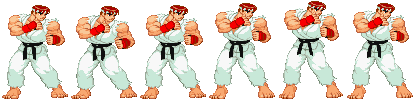
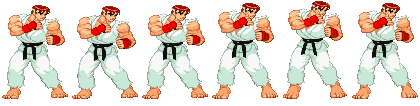
added sprite animation

diff --git a/palette_swap.py b/palette_swap.py
@@ -5,10 +5,11 @@ from pygame.locals import *
 pygame.init()
 pygame.display.set_caption("palette swap test")
 
-WINDOW_SIZE = [416, 106]
+WINDOW_SIZE = [420, 106]
 screen = pygame.display.set_mode(WINDOW_SIZE)
 
 ryu = pygame.image.load("./ryu/idle.png").convert()
+#ryu_copy = ryu
 
 def palette_swap(screen, colOld, colNew):
     img_copy = pygame.Surface(ryu.get_size())
@@ -17,25 +18,50 @@ def palette_swap(screen, colOld, colNew):
     img_copy.blit(screen,(0,0))
     return img_copy
 
-
-ryu = palette_swap(ryu, (248,248,248),(64,64,136))
-ryu = palette_swap(ryu, (200,232,216),(48,48,96))
-ryu = palette_swap(ryu, (184,200,184),(32,32,80))
-ryu = palette_swap(ryu, (152,168,152),(16,16,64))
-ryu = palette_swap(ryu, (112,136,112),(0,0,48))
-
-ryu = palette_swap(ryu, (248,0,0),(168,0,0))
-ryu = palette_swap(ryu, (112,0,0),(184,0,0))
+ryu_orig_cols = [(248,248,248), (200,232,216), (184,200,184), (152,168,152), (112,136,112), (248,0,0), (112,0,0)]
+ryu_new_cols =  [(64,64,136), (48,48,96), (32,32,80), (16,16,64), (0,0,48), (168,0,0), (184,0,0)]
 
 
-#ryu.set_colorkey((0,0,0))
+
+for i in range(0, 7):
+    ryu = palette_swap(ryu, ryu_orig_cols[i], ryu_new_cols[i])
+    
+
+def get_image(sheet, frame, width, height):
+    img = pygame.Surface((width, height)).convert()
+    img.blit(sheet, (0,0), ((frame * width),0, width, height))
+    img.set_colorkey((0,0,0))
+
+    return img
 
 def main():
+
+    anim_list = []
+    last_update = pygame.time.get_ticks()
+    anim_frame = 0
+
+    for i in range(0,6):
+        anim_list.append(get_image(ryu, i, 70, 106))
+
+
+    #frame_0 = get_image(ryu_copy, 70, 106)
+
     gameRunning = True
 
     while gameRunning:
-        screen.fill((0,0,0))
-        screen.blit(ryu, (0,0))
+        screen.fill((0,255,0))
+        
+        current_time = pygame.time.get_ticks()
+        
+        if current_time - last_update >= 80:
+            anim_frame += 1
+            last_update = current_time
+            if anim_frame >= len(anim_list):
+                anim_frame = 0
+
+        screen.blit(anim_list[anim_frame], (0, 0))
+        
+        #screen.blit(frame_0, (0,0))
 
         for event in pygame.event.get():
             if event.type == pygame.QUIT: # user closes the window
